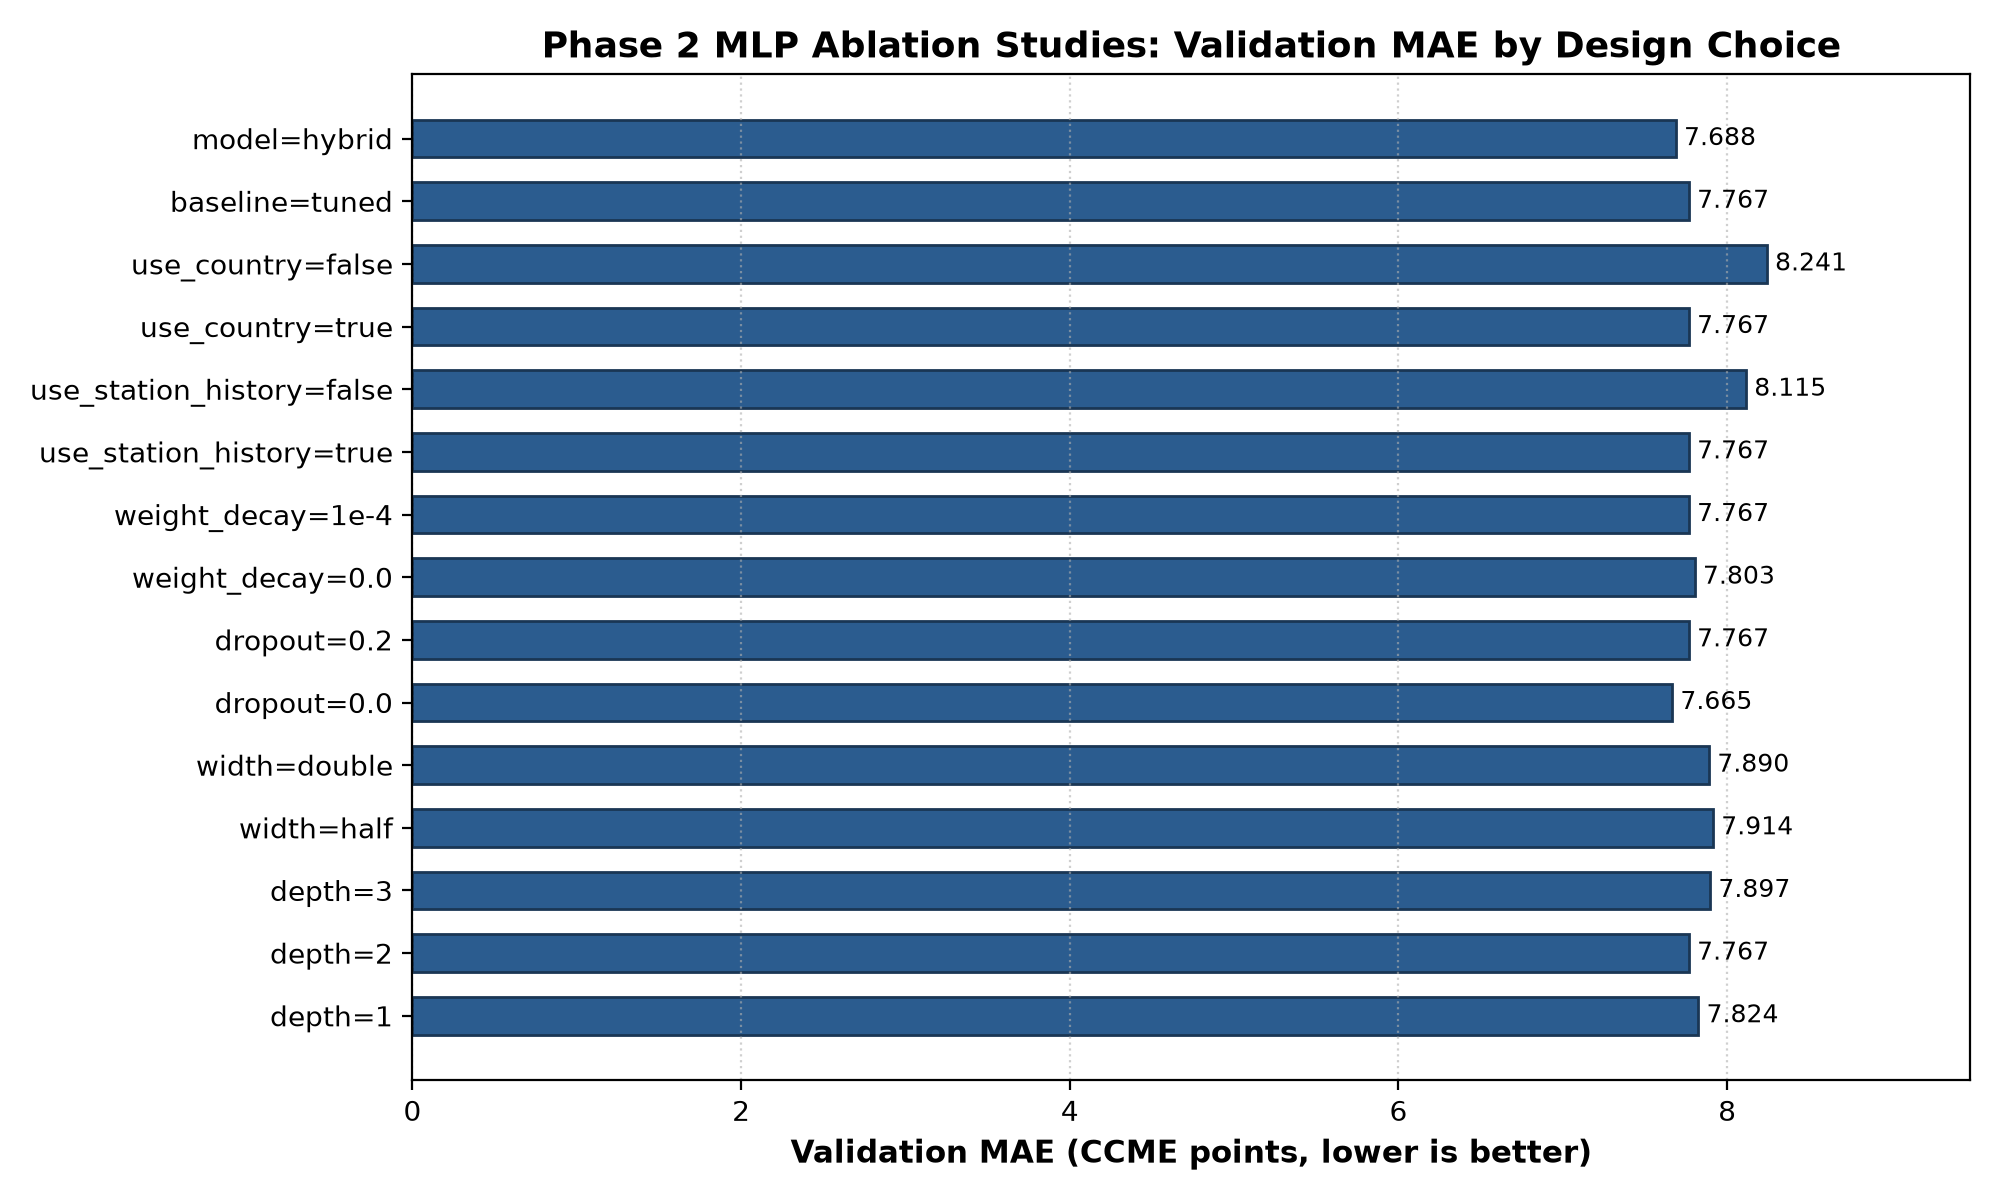
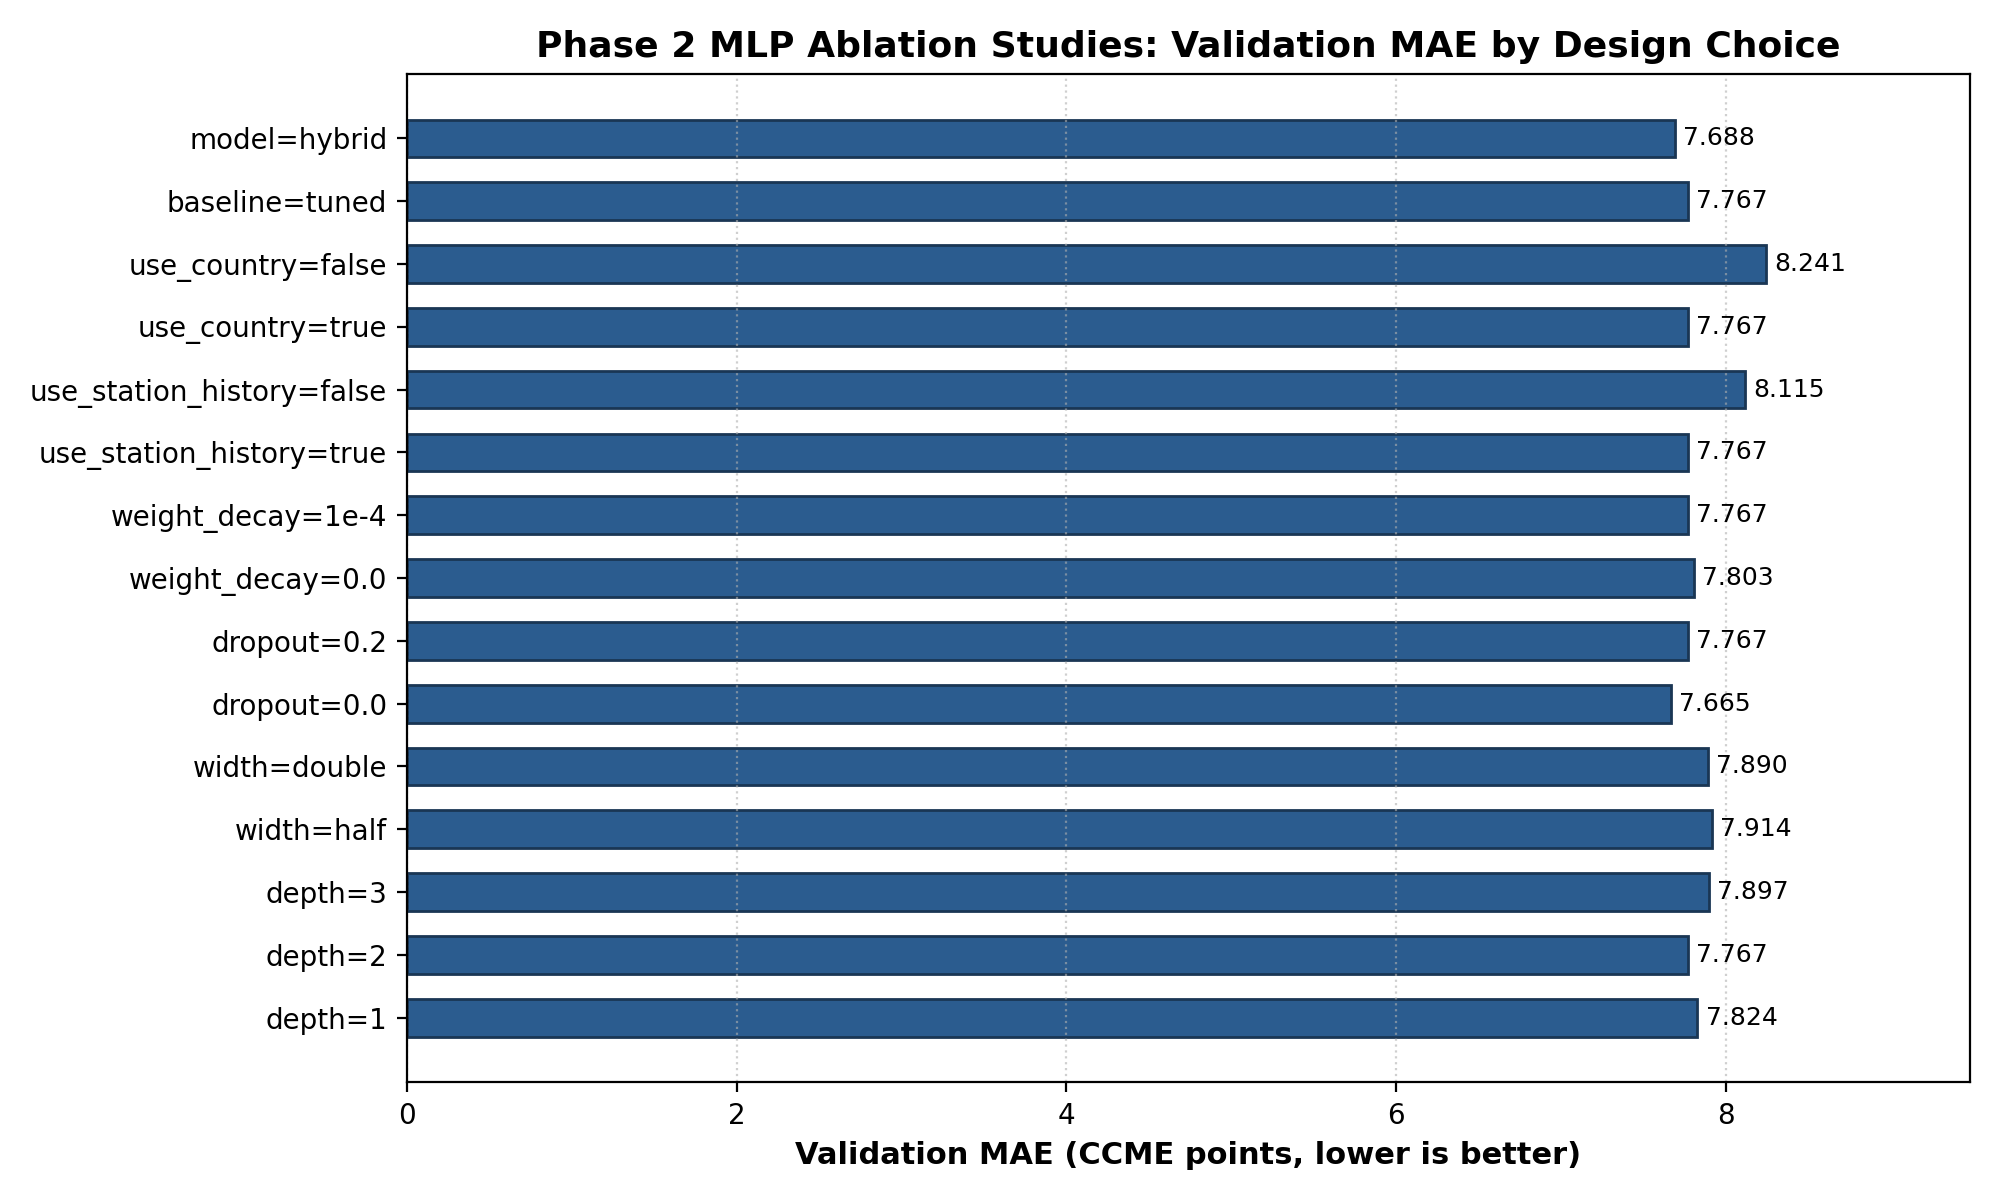
feat: add Phase 2 deep learning (MLP, hybrid, and ablations) and evaluation

diff --git a/src/ablations.py b/src/ablations.py
@@ -59,7 +59,6 @@ import argparse
 import copy
 import hashlib
 import json
-import sys
 import time
 from datetime import datetime, timezone
 from pathlib import Path
@@ -72,7 +71,6 @@ import numpy as np
 import pandas as pd
 from sklearn.compose import ColumnTransformer
 from sklearn.impute import SimpleImputer
-from sklearn.metrics import mean_absolute_error, mean_squared_error, r2_score
 from sklearn.pipeline import Pipeline
 from sklearn.preprocessing import OneHotEncoder, StandardScaler
 
@@ -597,14 +595,14 @@ def run_ablation(
     baseline_cfg["seed"] = seed
     cfg_hash = compute_config_hash(baseline_cfg)
 
-    print(f"\n=======================================================")
+    print("\n=======================================================")
     print(f"Ablation Experiment: Varying '{vary}'")
     print(f"Values to test: {values}")
     print(f"Baseline Source: {baseline_cfg['source_file']}")
     print(f"Baseline Is Genuine Tuned: {is_genuine_baseline}")
     print(f"Config Hash: {cfg_hash}")
     print(f"Execution Mode: {'DRY-RUN' if dry_run else 'ACTIVE RUN'}")
-    print(f"=======================================================\n")
+    print("=======================================================\n")
 
     timestamp = datetime.now(timezone.utc).isoformat()
 

diff --git a/src/train_dl.py b/src/train_dl.py
@@ -20,7 +20,7 @@ Outputs (results/dl/):
     mlp_history.csv            train / validation loss per epoch of the chosen model
     predictions_mlp.csv        test predictions: row_id, y_true, y_pred (scored once, later)
     predictions_mlp_val.csv    validation predictions (for choosing a hybrid blend weight)
-models/mlp.pt                  chosen weights (not committed, regenerate with this script)
+models/mlp.pt                  chosen weights (committed; regenerate with this script)
 """
 
 from __future__ import annotations

diff --git a/src/make_ablation_figures.py b/src/make_ablation_figures.py
@@ -27,14 +27,13 @@ from __future__ import annotations
 import glob
 import math
 from pathlib import Path
-from typing import Dict, List, Optional, Tuple
+from typing import Dict, Tuple
 
 import matplotlib
 matplotlib.use("Agg")
 import matplotlib.pyplot as plt
 import numpy as np
 import pandas as pd
-from sklearn.metrics import mean_absolute_error, mean_squared_error, r2_score
 
 ROOT = Path(__file__).resolve().parents[1]
 ABLATIONS_CSV = ROOT / "results" / "ablations.csv"

diff --git a/README.md b/README.md
@@ -1,9 +1,9 @@
-# Water Quality Prediction (AML Phase 1)
+# Water Quality Prediction (AML Phase 1 + DL Phase 2)
 
 **Project 18 — Water Quality Prediction via Gradient Boosting and Deep Neural Networks**
 Course project (Advanced Machine Learning + Deep Learning), team of 5.
 
-> This README covers **Phase 1 (classical ML)**. Phase 2 (deep learning, MLP) will be added later on the same data and split.
+> This README covers **Phase 1 (classical ML)** and **Phase 2 (deep learning: MLP and a hybrid)**, both on the same data and the same splits. Phase 2 is described in the last section.
 
 ## Team
 
@@ -39,7 +39,7 @@ Both splits are stored as columns in `data/processed/final_dataset.csv`, so ever
 - **By year:** train on the older years, tune on 2016–2017, test on 2018 onwards. Years cannot be cut into exact percentages, hence 71 / 8 / 20.
 - **How to use them:** train on `train`, tune hyperparameters and stop early on `val`, and look at `test` once at the end. Report the station split as the main result and the year split as the extra check. The Phase 2 neural network must use the same columns.
 
-#### Viva answer: why split by station and not by random rows?
+#### Why split by station and not by random rows?
 
 - Water quality at one station stays similar from sample to sample. With a random row split, the same station would appear in both train and test, and the model could score well just by remembering that a station is usually clean or dirty. That is leakage and would overstate performance.
 - With the station split, the test set contains only stations the model has never seen, so the score answers the real question: does it work at a new location?
@@ -165,6 +165,77 @@ python -m src.train
 - The source data had gaps filled with repeated numbers; we marked them as missing, but the target index was calculated after the filling.
 - Settings were chosen on one validation split without cross-validation.
 
-## Phase 2 (planned)
+## Phase 2: deep learning (MLP and hybrid)
 
-A small regularised MLP will be trained on the same cleaned data and the same saved splits (the `split` and `split_time` columns in `data/processed/final_dataset.csv`) and compared fairly with the Phase 1 baselines.
+Phase 2 trains a small regularised neural network (MLP) on the same cleaned data, the same inputs and the same station and year splits as Phase 1, then compares it fairly with the Phase 1 XGBoost and combines the two into a hybrid.
+
+**The network.** A PyTorch MLP, 30 inputs → 128 → 64 → 1, ReLU, dropout 0.2, weight decay 1e-4, Adam (learning rate 0.001, batch size 512), mean squared error loss and early stopping (patience 10). It has 12,289 parameters. 13 settings were tried (the default plus 12 random trials) and the one with the lowest *validation* RMSE was kept; the default won. Details: `docs/architecture_dl.md`, `docs/regularisation_justification.md`, `docs/theory_dl.md`.
+
+**The hybrid.** A weighted blend `w · XGBoost + (1 − w) · MLP`, clipped to 0–100. The weight (0.55 XGBoost, 0.45 MLP) was chosen on validation only, using Phase 1's saved XGBoost predictions and the saved MLP predictions. A residual-learning hybrid was also tried and rejected (its corrections had almost no correlation with the real residuals). Out-of-fold predictions are only needed for that residual variant, not for the blend.
+
+**Ablations.** Depth, width, dropout, weight decay, station history and country were each changed one at a time from the tuned MLP (`docs/ablation_section.md`, `results/ablations.csv`). Depth, width, dropout and weight decay made no clear difference. Removing station history (validation RMSE 11.878 vs 11.231) or country (11.733) hurt most, although the separately computed intervals still overlap.
+
+### Phase 2 results
+
+**Station split, test set (51,973 rows, unseen stations), scored once.** Source: `results/dl/metrics_dl.csv`; confidence intervals and paired differences are in `results/dl/station_bootstrap_ci.csv` and `results/dl/paired_rmse_differences.csv` (2,000 bootstrap draws of whole stations, the same stations for every model in a draw).
+
+| Model | MAE | RMSE | R² | 95% CI for RMSE |
+|---|---|---|---|---|
+| XGBoost (Phase 1) | 7.543 | 11.058 | 0.293 | [10.309, 11.819] |
+| MLP | 7.606 | 11.108 | 0.287 | [10.366, 11.863] |
+| **Hybrid (blend)** | **7.521** | **11.010** | **0.300** | [10.263, 11.772] |
+
+| Paired RMSE difference | Value | 95% CI | CI excludes 0? |
+|---|---|---|---|
+| MLP minus XGBoost | +0.049 | [-0.053, 0.147] | No |
+| Hybrid minus XGBoost | -0.049 | [-0.098, -0.002] | Yes, barely |
+| Hybrid minus MLP | -0.098 | [-0.150, -0.043] | Yes |
+
+- The MLP and XGBoost cannot be told apart on unseen stations.
+- The hybrid is best, but its gain over XGBoost is small (about 0.05 RMSE, 0.4%) and only just excludes zero. We describe it as a small gain.
+- The hybrid beats the MLP clearly.
+- R² stays near 0.3 for every model, so the limit is the information in the inputs, not the model type.
+
+**Year split (secondary check, test 2018 onwards).** Hybrid RMSE 7.842, MLP 7.866, XGBoost 8.061 (R² 0.281, 0.276, 0.240). One split, no confidence intervals, so this is supporting evidence only. The XGBoost here was retrained in notebook 08, so it differs slightly from the Phase 1 line above.
+
+**Where all models fail.** On polluted water (true score below 60, about 6.7% of validation rows) all three models over-predict by roughly 29 points. The blend does not fix this.
+
+### How to reproduce Phase 2
+
+Run from the repo root, after the Phase 1 steps above. Seeds are fixed to `42`.
+
+```bash
+# 1. Train and tune the MLP on validation (test set is not scored here)
+python -m src.train_dl                 # writes results/dl/ and models/mlp.pt
+#    quick check: python -m src.train_dl --trials 4 --epochs 20
+
+# 2. Ablations (one factor at a time) and their figures
+python -m src.ablations --vary depth --values 1,2,3      # see the docstring for the other factors
+python -m src.make_ablation_figures
+
+# 3. Hybrid: blend Phase 1 XGBoost with the MLP, weight chosen on validation
+python -m src.hybrid                   # add --oof for the residual-variant diagnostic
+#    or run notebooks/07_hybrid.ipynb
+
+# 4. Final evaluation: test set scored once, with confidence intervals
+#    run notebooks/08_dl_evaluation.ipynb
+```
+
+Notebooks 06 (MLP), 07 (hybrid) and 08 (evaluation) read the saved predictions, so they run in a minute or two without retraining. Their optional retraining sections are switched off by default.
+
+### Phase 2 files
+
+| Part | Files |
+|---|---|
+| MLP | `src/train_dl.py`, `src/dl_data.py`, `src/regularisation.py`, `notebooks/06_mlp.ipynb`, `docs/architecture_dl.md`, `models/mlp.pt` |
+| Hybrid and evaluation | `src/hybrid.py`, `notebooks/07_hybrid.ipynb`, `notebooks/08_dl_evaluation.ipynb`, `docs/theory_dl.md` |
+| Ablations | `src/ablations.py`, `src/make_ablation_figures.py`, `configs/tuned_mlp.yaml`, `docs/ablation_section.md` |
+| Results | `results/dl/`, `results/hybrid_*.csv`, `results/predictions_hybrid.csv`, `results/ablations.csv` |
+
+### Phase 2 limitations
+
+- The hybrid's gain over XGBoost is small and only just statistically clear; we do not claim a large improvement.
+- 13 tuning trials is a small search, and the tuned setting is the default.
+- Ablation intervals are computed separately and overlap; a paired bootstrap would be the right test to confirm the station-history and country effects.
+- The year-split result is a single split without confidence intervals.
+- Over-prediction on polluted water remains for every model.

diff --git a/docs/architecture_dl.md b/docs/architecture_dl.md
@@ -44,10 +44,11 @@ input (30)  ->  Linear 30->128  -> ReLU -> Dropout 0.2
 | **MLP (this network)** | **7.767** | **11.231** | **0.345** |
 | XGBoost | 7.729 | 11.205 | 0.348 |
 
-The MLP lands between Random Forest and XGBoost on validation. The gaps are small (RMSE within 0.03), so the real comparison is the one-time test evaluation with confidence intervals (Anusha, `notebooks/08_dl_evaluation.ipynb`).
+The MLP lands between Random Forest and XGBoost on validation. The gaps are small (RMSE within 0.03), so the real comparison is the one-time test evaluation with confidence intervals (Anusha, `notebooks/08_dl_evaluation.ipynb`). On the unseen test stations the MLP and XGBoost cannot be separated (test RMSE 11.108 vs 11.058, paired difference +0.049, 95% CI [-0.053, 0.147]).
 
 ## 5. What the tuning showed
 
 - 12 of 13 trials landed within RMSE 11.23 to 11.41 (the worst was 11.59). The default setting was the best. The network is not very sensitive to depth, width or learning rate, which suggests the limit is the information in the 14 inputs, not the model.
 - Early stopping mattered: validation loss stopped improving after about epoch 19 while training loss kept falling, which is the start of overfitting.
-- Limitation: 13 random trials is a small search, and the winner is the default setting, so we have not shown that tuning cannot help. Ablations (Sarthak) test one factor at a time.
+- Limitation: 13 random trials is a small search, and the winner is the default setting, so we have not shown that tuning cannot help. Ablations (Sarthak) test one factor at a time (`docs/ablation_section.md`, `results/ablations.csv`).
+- Ablation evidence: changing depth, width, dropout or weight decay made no clear difference (validation RMSE 11.23 to 11.37, confidence intervals overlap). Removing station history (RMSE 11.878) or country (11.733) hurt most (the separate intervals still overlap, so a paired test would be needed to confirm it), which suggests the inputs matter more than the architecture.

diff --git a/docs/theory_dl.md b/docs/theory_dl.md
@@ -29,7 +29,7 @@ The loss is the single number training minimises.
 Training means finding weights that make the loss small.
 
 1. **Forward pass:** push a batch of rows through the layers to get predictions, then compute the loss.
-2. **Backward pass (backpropagation):** apply the chain rule from the output backwards to get the gradient of the loss with respect to every weight. Each layer reuses the gradient of the layer after it, so all 12,289 gradients cost about as much as one extra forward pass.
+2. **Backward pass (backpropagation):** apply the chain rule from the output backwards to get the gradient of the loss with respect to every weight. Each layer reuses the gradient of the layer after it, so all 12,289 gradients cost a small multiple of a forward pass (roughly twice as much), not one pass per weight.
 3. **Update:** move each weight a small step against its gradient: w <- w - eta * dL/dw, where eta is the learning rate.
 
 We do this on mini-batches of 512 rows (about 355 updates per epoch). A mini-batch gradient is a noisy but cheap estimate of the full gradient, and the noise helps escape poor spots. This is the same gradient-descent idea as in boosting, except here the steps change the weights, while XGBoost adds a tree at each step.
